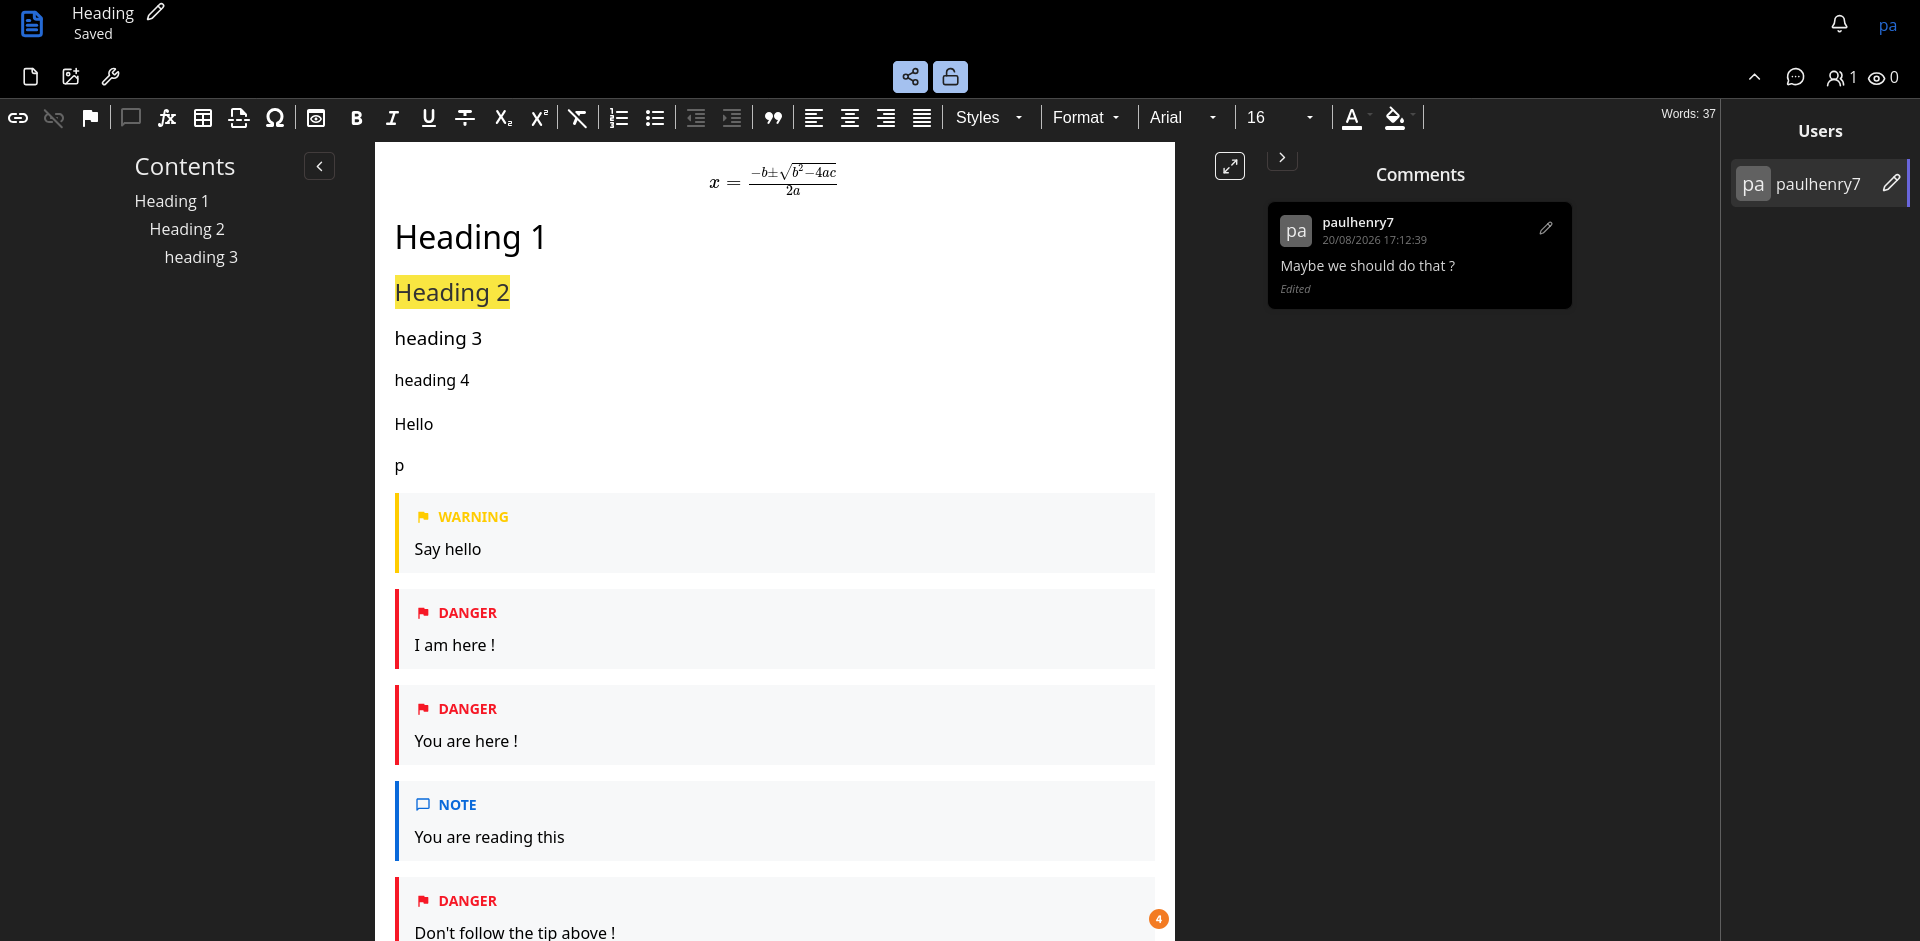
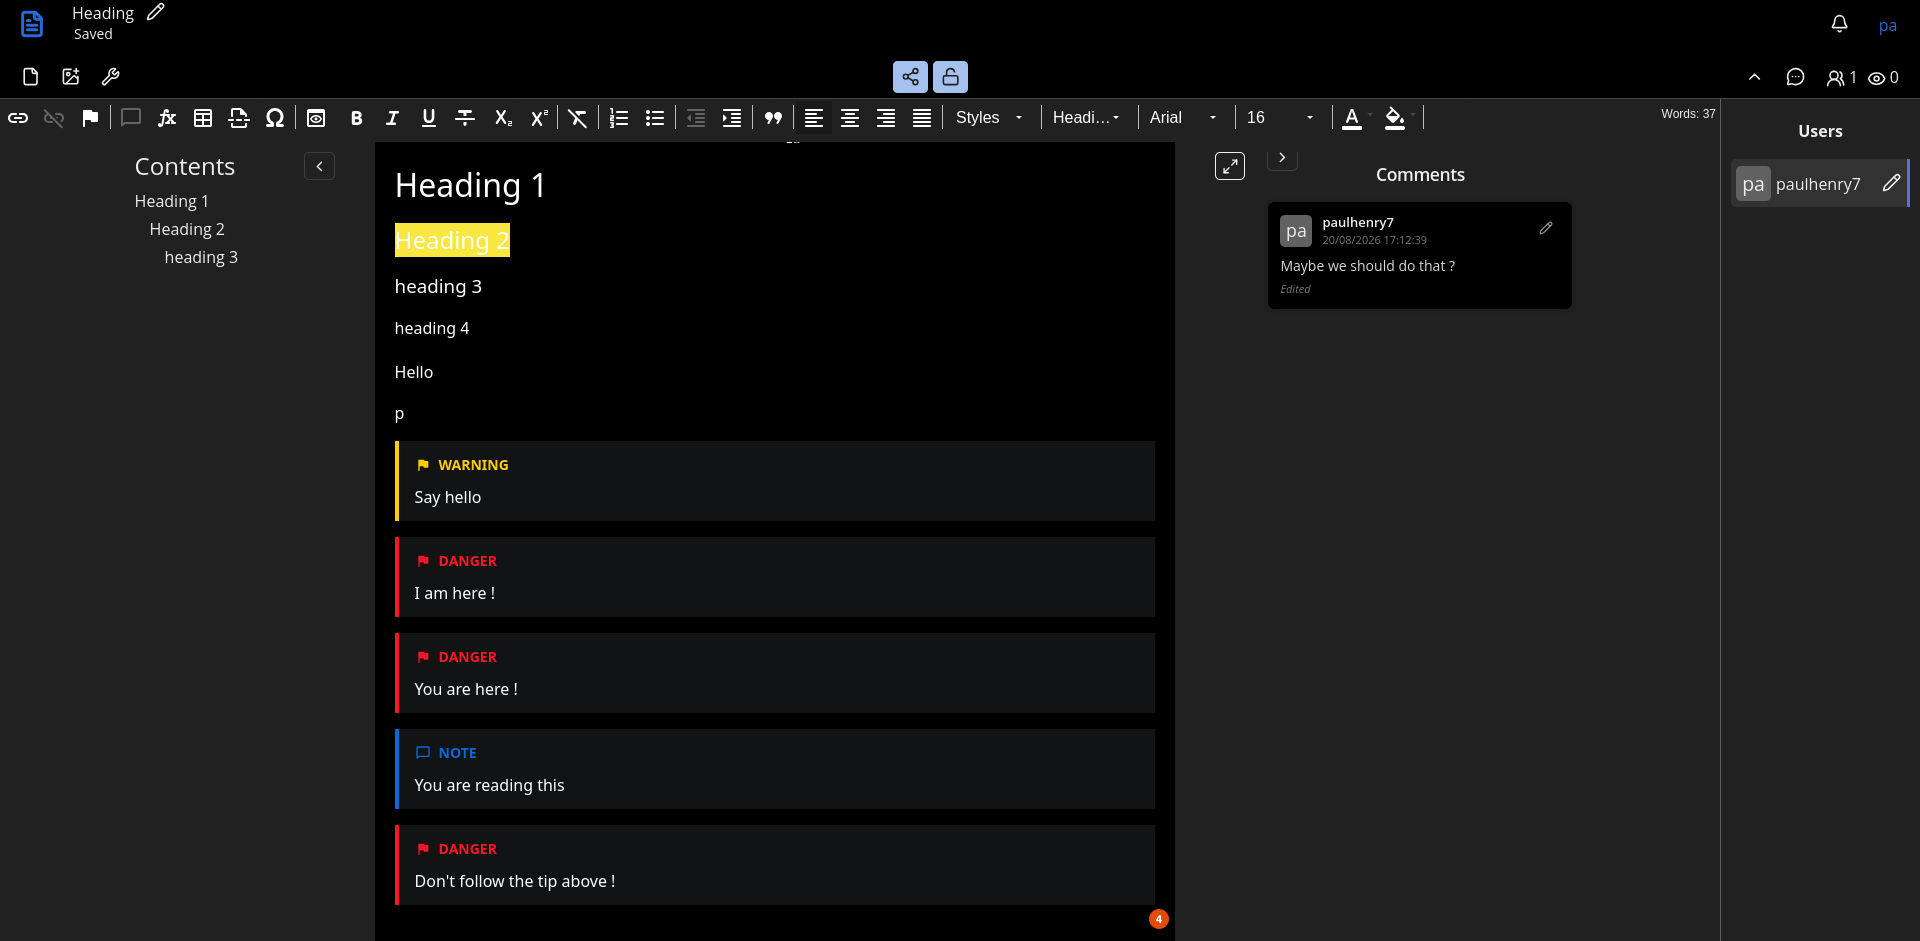
fox pad UI

diff --git a/customize/ckeditor-contents.css b/customize/ckeditor-contents.css
@@ -27,6 +27,24 @@ html.cp-dark ::-webkit-scrollbar-thumb {
     background-color: rgba(255,255,255,0.2) !important;
 }
 
+html.cp-dark-mode,
+html.cp-dark-mode[style],
+body.cp-dark-mode,
+body.cp-dark-mode[style] {
+    background-color: #000000 !important;
+    background: #000000 !important;
+    color: #ffffff !important;
+}
+
+@media (prefers-color-scheme: dark) {
+    html[style],
+    body[style],
+    body.cke_editable[style] {
+        background-color: #000000 !important;
+        background: #000000 !important;
+        color: #ffffff !important;
+    }
+}
 
 body
 {

diff --git a/readme.md b/readme.md
@@ -9,3 +9,4 @@ The folowwing have been taken with default blue theme activated and Dark theme e
 ![Search](./docs/screenshots/search.png)
 ![Settings](./docs/screenshots/settings.png)
 ![Settings](./docs/screenshots/settings_new.png)
+![Pad](./docs/screenshots/pad.png)
